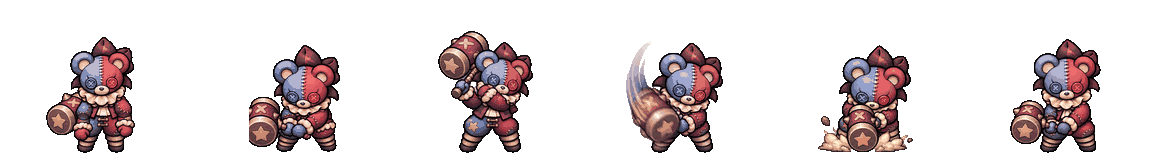
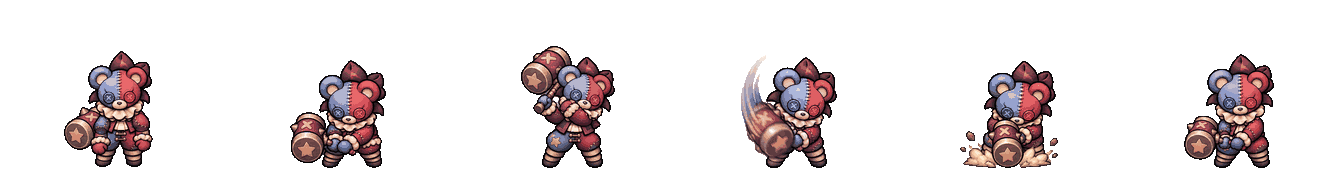
Cắt khung theo khối liền (không mất búa/bụi) + công cụ cắt 6 khung pixel
Claude-Session: https://claude.ai/code/session_016VkJ26f22ubevy4EnREsEV

diff --git a/tools/demo-cat-6khung-pixel.py b/tools/demo-cat-6khung-pixel.py
@@ -1,0 +1,47 @@
+from PIL import Image
+import numpy as np, sys
+from scipy import ndimage
+S='/tmp/claude-0/-home-claude/07b38427-7433-5f9d-9534-8e5dd3f7e53b/scratchpad/'
+V='/root/neon/docs/demo-hop-tuong/nguon-chatgpt/v3/'
+src,n,name=sys.argv[1],int(sys.argv[2]),sys.argv[3]
+im=Image.open(V+src).convert('RGBA'); arr=np.array(im); m=arr[:,:,3]>40
+lab,k=ndimage.label(ndimage.binary_dilation(m,iterations=2)); lab=lab*m
+W=im.width; centers=[(i+0.5)*W/n for i in range(n)]
+sizes=ndimage.sum(m,lab,range(1,k+1)); com=ndimage.center_of_mass(m,lab,range(1,k+1))
+groups=[[] for _ in range(n)]
+for i in range(k):
+    if sizes[i]<30: continue
+    groups[int(np.argmin([abs(com[i][1]-c) for c in centers]))].append(i+1)
+masks=[np.isin(lab,g) for g in groups]
+# tỉ lệ theo chiều cao thân khung đầu
+ys=np.nonzero(masks[0].any(1))[0]; sc=116/(ys[-1]-ys[0])
+ground=max(np.nonzero(mm.any(1))[0][-1] for mm in masks)
+FW,FH=224,176
+frames=[]
+for mm in masks:
+    ys=np.nonzero(mm.any(1))[0]; gb=ys[-1]
+    # chân: hàng dưới cùng của khối lớn nhất (thân)
+    lab2,k2=ndimage.label(mm); big=np.argmax(ndimage.sum(mm,lab2,range(1,k2+1)))+1; body=lab2==big
+    by=np.nonzero(body.any(1))[0][-1]; yy,xx=np.nonzero(body[by-25:by+1]); cx=np.median(xx)
+    a=arr.copy(); a[:,:,3]=np.where(mm,a[:,:,3],0)
+    x0,x1=np.nonzero(mm.any(0))[0][[0,-1]]; y0=ys[0]
+    c=Image.fromarray(a,'RGBA').crop((x0,y0,x1+1,gb+1))
+    c2=c.resize((max(1,round(c.width*sc)),max(1,round(c.height*sc))),Image.LANCZOS)
+    a2=np.array(c2); al=a2[:,:,3]>110
+    q=Image.fromarray(a2[:,:,:3]).quantize(colors=40,method=Image.Quantize.MEDIANCUT,dither=Image.Dither.NONE).convert('RGB')
+    p=Image.fromarray(np.dstack([np.array(q),(al*255).astype('uint8')]),'RGBA')
+    F=Image.new('RGBA',(FW,FH),(0,0,0,0))
+    px=int(FW/2-(cx-x0)*sc); py=int(FH-8-(by-y0)*sc)
+    assert px>=0 and px+p.width<=FW and py>=0 and py+p.height<=FH+8, (px,py,p.size)
+    F.paste(p,(px,py),p); frames.append(F)
+sheet=Image.new('RGBA',(FW*n,FH),(0,0,0,0))
+for i,f in enumerate(frames): sheet.paste(f,(i*FW,0),f)
+sheet.save(V+name+'.png')
+s=Image.new('RGBA',sheet.size,(96,100,108,255)); s.alpha_composite(sheet); s.resize((sheet.width*2,sheet.height*2),Image.NEAREST).convert('RGB').save(S+name+'_view.png')
+durs=[300,140,180,60,260,200][:n]
+Z=3; out=[]; dd=[]
+for r in range(2):
+    for f,d in zip(frames,durs):
+        b=Image.new('RGBA',f.size,(96,100,108,255)); b.alpha_composite(f); out.append(b.resize((FW*Z,FH*Z),Image.NEAREST).convert('RGB')); dd.append(d)
+out[0].save(S+name+'.gif',save_all=True,append_images=out[1:],duration=dd,loop=0)
+print('ok',sc)
